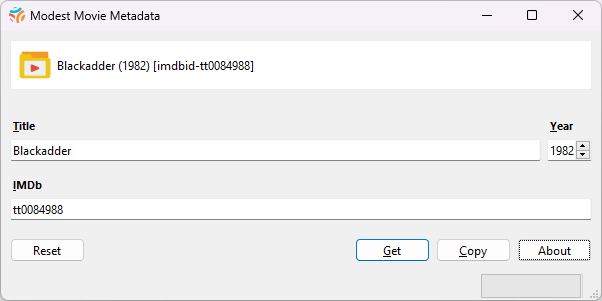
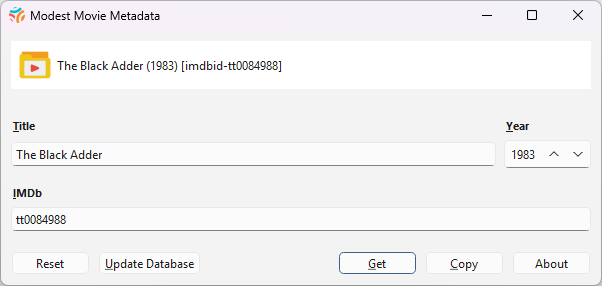
2.0.0 pre-release documentation update
Reflect changes made since version 1.0.0

diff --git a/README.md b/README.md
@@ -3,10 +3,8 @@
 [![Ruff](https://img.shields.io/endpoint?url=https://raw.githubusercontent.com/astral-sh/ruff/main/assets/badge/v2.json)](https://github.com/astral-sh/ruff)
 [![uv](https://img.shields.io/endpoint?url=https://raw.githubusercontent.com/astral-sh/uv/main/assets/badge/v0.json)](https://github.com/astral-sh/uv)
 
-A very simple tool to generate [Jellyfin](https://jellyfin.org/) folder
-names using data from IMDb. By way of example, for the television show
-[Blackadder](https://www.imdb.com/title/tt0084988/), this tool will
-generate the folder name `Blackadder (1982) [imdbid-tt0084988]`:
+A very simple tool to generate [Jellyfin](https://jellyfin.org/) folder names using data made freely available by IMDb. By way of example, for the television show [Black Adder](https://www.imdb.com/title/tt0084988/), this tool will generate the folder name
+`The Black Adder (1983) [imdbid-tt0084988]`:
 
 ![Program screenshot](.github/modest-movie-metadata.png)
 
@@ -15,35 +13,27 @@ Designed to be as efficient as possible, you use it hands-free:
 1. Monitors the clipboard for IMDb IDs, e.g. within a URL.
 2. Automatically writes generated folder names to the clipboard.
 
-If you prefer, you can enter only the title and year, and attempt to look
-up the IMDB ID using this tool. However, in practice, it is typically easier to
-search for the content on the IMDb website using a web browser, and then simply
-copy the URL to the clipboard.
+If you prefer, you can enter only the title and year, and attempt to look up the IMDB ID using this tool. However, in practice, it is typically easier to search for the content on the IMDb website using a web browser, and then simply copy the URL to the clipboard.
 
 The program does not create or monitor folders on the file system.
 
-Developed with Python 3.12, PySide 6.6, and
-[Cinemagoer](https://github.com/cinemagoer/cinemagoer).
+To function, the program will download a dataset from IMDb, and convert it into a database containing the primary title, the year the title premiered, and the title's IMDb id. At the time of writing, the dataset has over twelve million titles. You can make the program update the database should that be necessary. If an IMDb id is not recognized, the program itself will prompt to update the database.
+
 Tested under Windows 10 and 11.
 
 This project is not affiliated with Jellyfin or IMDb.
 
 ## Installation
 
-To install the program on Windows, click on the
-[Releases link here in GitHub](https://github.com/damonlynch/modest-movie-metadata/releases),
-and download the installer for the latest version.
+To install the program on Windows, click on the [Releases link here in GitHub](https://github.com/damonlynch/modest-movie-metadata/releases), and download the installer for the latest version.
 
-The installer is only for 64-bit Windows 10 and 11. It should work equally
-well on Linux and macOS, but to use it you need to know how to install Python
-packages and run a Python script. If somebody would like to volunteer to
-produce a macOS installer, I would be delighted (I don't own a Mac myself).
-If there is demand, I can create a Linux installer.  
+The installer is only for 64-bit Windows 10 and 11. It should work equally well on Linux and macOS, but to use it you need to know how to install Python packages and run a Python script. If somebody would like to volunteer to produce a macOS installer, I would be delighted (I don't own a Mac myself).
+If there is demand, I can create a Linux installer.
 
-For developers, you can install using uv. If you don't already have uv
-installed, use [astral's uv installation
-guide](https://docs.astral.sh/uv/getting-started/installation/). Once uv is installed, simply run `ModestMovieMetadata.ps1` or run `uv sync` to
-set up the project.
+For developers, you can install using uv. If you don't already have uv installed, use [astral's uv installation
+guide](https://docs.astral.sh/uv/getting-started/installation/). Once uv is installed, simply run
+`ModestMovieMetadata.ps1` or run
+`uv sync` to set up the project.
 
 ## License
 

diff --git a/CHANGES.md b/CHANGES.md
@@ -1,0 +1,11 @@
+# Changelog for Modest Movie Metadata
+
+## 2.0.0a1 (2026-06-xx)
+
+- Purge use of remote access to IMDb data using Cinemagoer in favor of downloading the freely available non-commercial dataset directly from IMDb.
+- Use IMDb's Primary Title field when fetching the title.
+- Update bundled Qt 6 to version 6.11.
+
+## 1.0.0 (2023-11-22)
+
+- Initial release